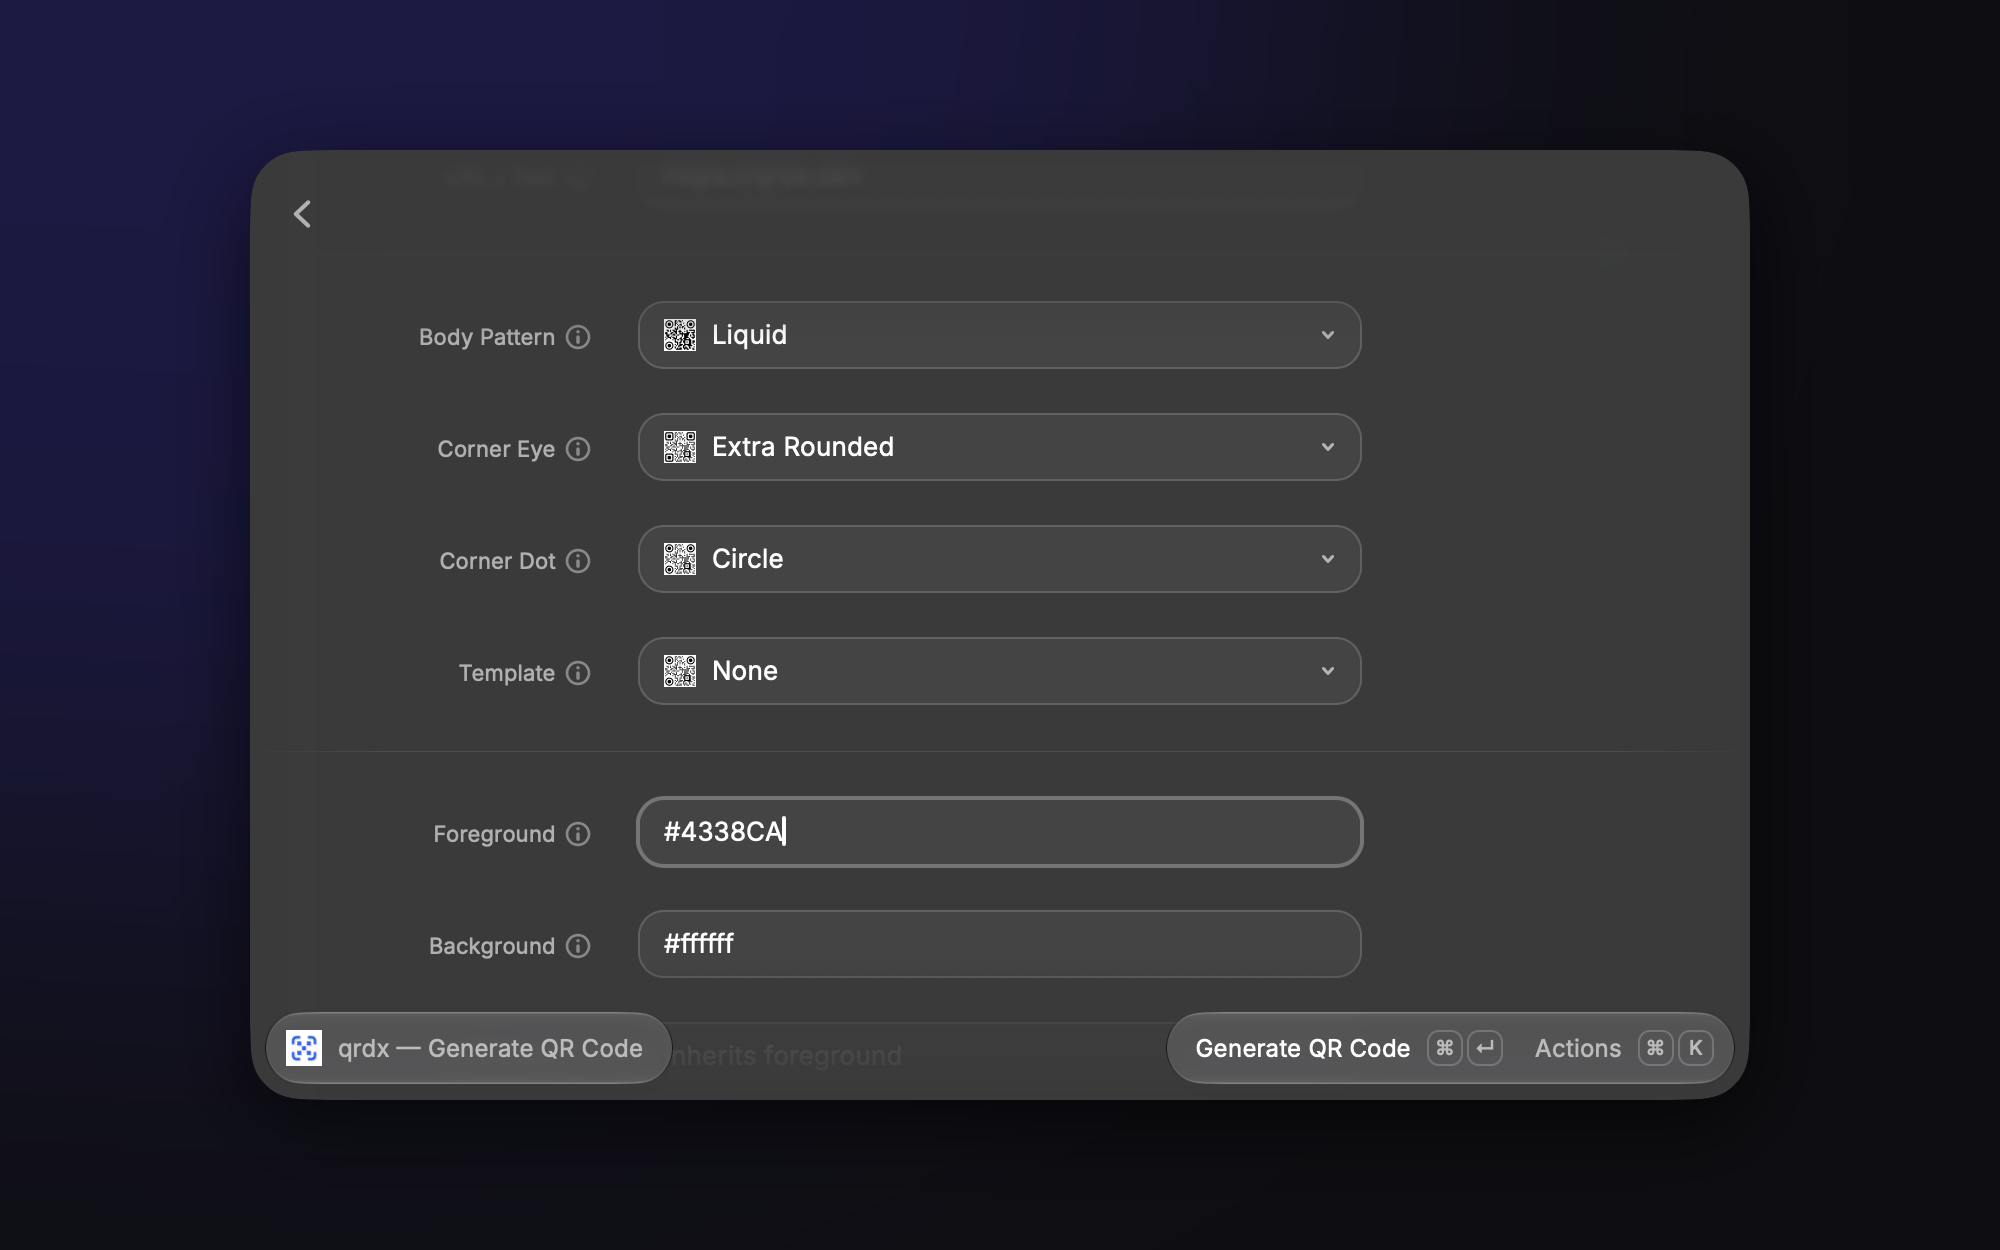
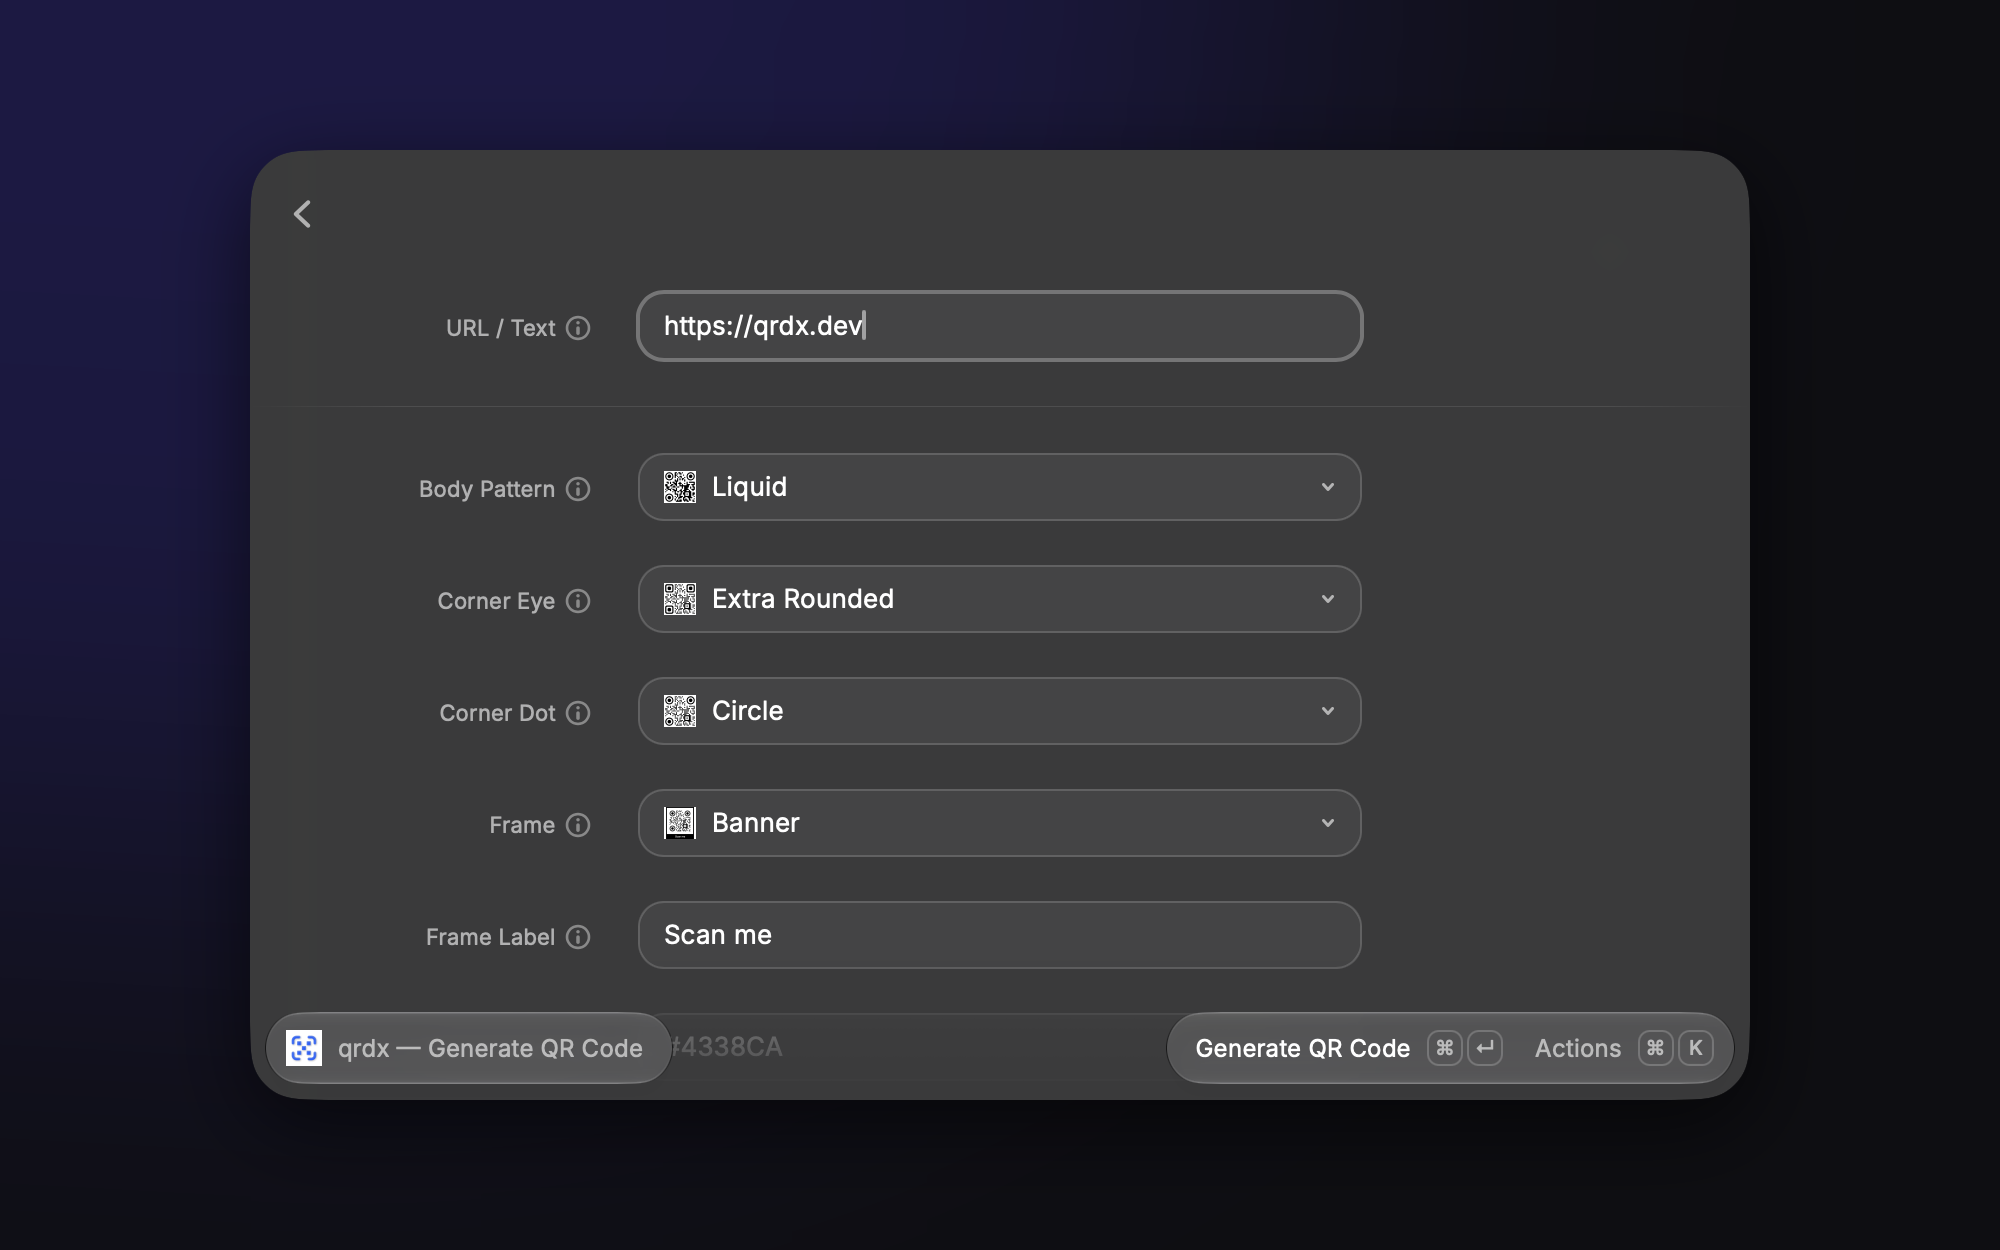
Raycast: Store shots with frames, and a fresh detail pane after an edit
Checked in Raycast: the Generate QR preview fits the window, Saved QR
Codes shows each code with its settings, and edits redraw the preview.
After an edit Raycast kept the old value's width in the pane, so
"Liquid" read "Li…id"; keying the detail by the preview path lays it
out again.

The Store screenshots that showed the Template field and the template
picker now show the Frame field and the frame picker, and a sixth shows
the generated preview.

diff --git a/plugins/raycast/src/saved-qrs.tsx b/plugins/raycast/src/saved-qrs.tsx
@@ -239,6 +239,10 @@ export default function SavedQRs() {
               actions={<SavedQRActions onRefresh={refresh} saved={saved} />}
               detail={
                 <List.Item.Detail
+                  // The path changes with the code's settings. A new key makes
+                  // Raycast lay the pane out again after an edit; it kept the
+                  // old value's width and cut "Liquid" to "Li…id".
+                  key={previewPath}
                   markdown={
                     hasPreview
                       ? imageMarkdown(previewPath, DETAIL_PREVIEW_POINTS)
